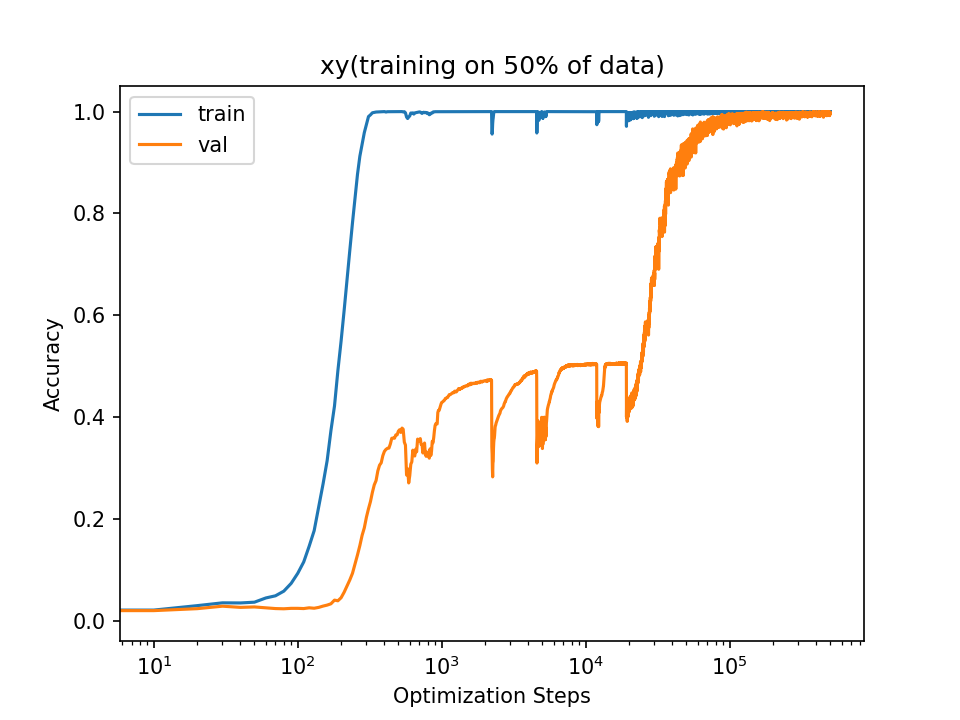
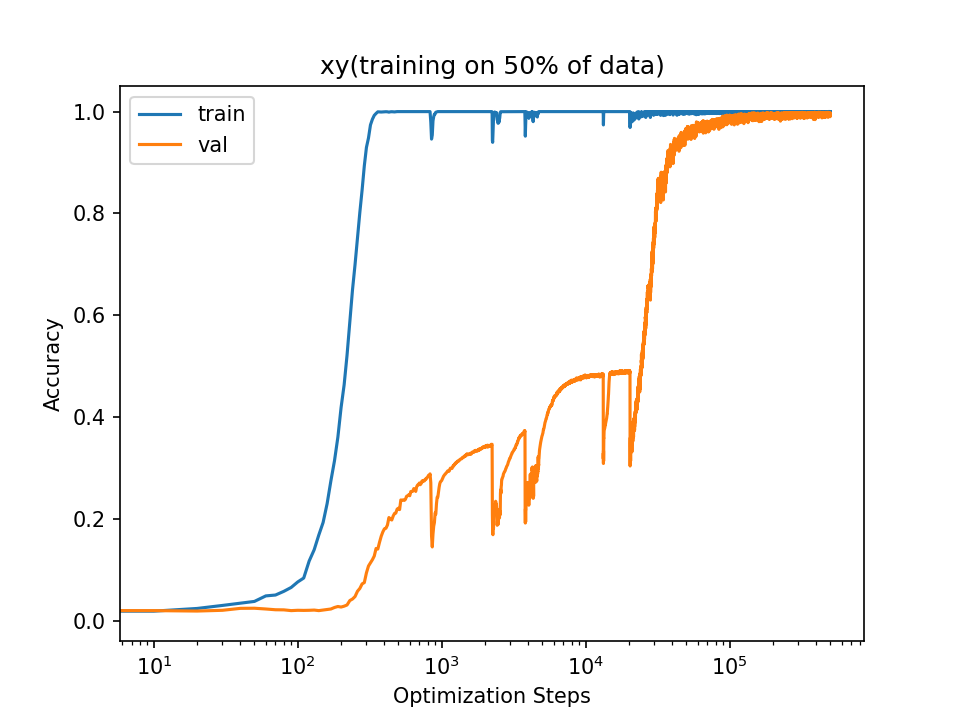
-

diff --git a/train.py b/train.py
@@ -5,7 +5,7 @@ from itertools import permutations
 import operations
 
 from svcca.cca_core import get_cca_similarity
-from similarity import svd_reduction
+#from similarity import svd_reduction
 
 from sklearn import linear_model
 from sklearn.metrics import r2_score
@@ -22,15 +22,22 @@ from models import Decoder
 
 def main(args):
     #torch.manual_seed(0)
+    # tokens for <op> and <=>. It's not clear why <=> is needed at all since it
+    # has no effect on the output, but we'll leave it in to best follow the
+    # paper.
+    eq_token = args.p
+    op_token = args.p + 1
+
     ops={**operations.monomial, **operations.composite, **operations.other}
     score={}
     representations={}
     other_data={}
-    '''
+    
     for key, value in ops.items():
         score[key]=[]
-        representations[key]=torch.load(f'representations/{key}/final.pt')
-    '''
+        other_data[key]=operations.generate_data(args.p, eq_token, op_token, value)
+        #representations[key]=torch.load(f'representations/{key}/final.pt')
+    
     if not os.path.exists(f'weights/{args.operation}'):
         os.makedirs(f'weights/{args.operation}')
     if not os.path.exists(f'figures/{args.operation}'):
@@ -40,12 +47,7 @@ def main(args):
 
     device = torch.device("cuda" if torch.cuda.is_available() else "cpu")
 
-    # tokens for <op> and <=>. It's not clear why <=> is needed at all since it
-    # has no effect on the output, but we'll leave it in to best follow the
-    # paper.
-    eq_token = args.p
-    op_token = args.p + 1
-
+    
     # "We trained a standard decoder-only transformer (Vaswani et al., 2017)
     # with causal attention masking, and calculated loss and accuracy only on
     # the answer part of the equation. For all experiments we used a
@@ -57,8 +59,6 @@ def main(args):
     # "We train on the binary operation of division mod 97 with 50% of the data
     # in the training set."
     alldata = operations.generate_data(args.p, eq_token, op_token, ops[args.operation])
-    for key, value in ops.items():
-        other_data[key]=operations.generate_data(args.p, eq_token, op_token, value)
     train_idx, valid_idx = torch.randperm(alldata.shape[1]).split((alldata.shape[1] // 2)+1)
     train_data, valid_data = alldata[:, train_idx], alldata[:, valid_idx]
 
@@ -135,8 +135,9 @@ def main(args):
                         #svcca_results = get_cca_similarity(x, y, epsilon=1e-10, verbose=False)
                         #score[key].append(svcca_results['cca_coef1'].mean())
 
-                        y=model(other_data[key].to(device)[:-1])[-1].argmax(-1)
-                        score[key].append(torch.sum(torch.eq(x, y))/(args.p**2))
+                        y=other_data[key].to(device)[-1]
+                        result=torch.sum(torch.eq(x, y)).cpu().numpy()
+                        score[key].append(result/(args.p**2))
 
 
         if (e + 1) % 100 == 0:
@@ -170,6 +171,7 @@ def main(args):
             plt.xlabel("Optimization Steps")
             plt.ylabel("score")
             plt.xscale("log", base=10)
+            plt.yscale("log", base=10)
             plt.savefig(f'figures/{args.operation}/overlap_score.png', dpi=150)
             plt.close()
 

diff --git a/similarity.py b/similarity.py
@@ -58,9 +58,9 @@ def main():
             for j in range(len(operation_names)-1):
                 xi=representations[operation_names[i]].float()
                 xj=representations[operation_names[j]].float()
-                results[i,j]=torch.sum(torch.eq(xi, xj))/(97**2)
+                results[i,j]=torch.sum(torch.eq(xi, xj))/(len(xi))
                 #results[i,j]=torch.dot(xi, xj)/torch.norm(xi, 2)/torch.norm(xj, 2)
-        hm=sns.heatmap(results, annot=True, cmap='Blues', fmt='.2f', xticklabels=operation_names[:-1], yticklabels=operation_names[:-1]).set_title("Overlap score")
+        hm=sns.heatmap(results, annot=True, cmap='Blues', fmt='.0f', xticklabels=operation_names[:-1], yticklabels=operation_names[:-1]).set_title("Overlap score")
         figure = hm.get_figure()
         figure.savefig('figures/heatmap_overlap.png', dpi=400)
         figure.clf()           

diff --git a/grok.py b/grok.py
@@ -2,7 +2,7 @@ from operations import monomial, composite, other
 import subprocess
 
 for key, value in {**other, **monomial, **composite}.items():
-    if key=='rand':
+    if key=='xy':
         subprocess.check_output(['python', 'train.py', f'--operation={key}'])
 
 #subprocess.check_output(['python', 'store_representations.py'])

diff --git a/operations.py b/operations.py
@@ -42,7 +42,7 @@ def generate_data(p, eq_token, op_token, operation):
     op = torch.ones_like(x) * op_token
     print(x.shape)
     if operation=="rand":
-        result=torch.randint(0, p, size=(p*p,))
+        result=torch.randint(0, p, size=(96*96,))
     else:
         result = operation(x,y) % p
 
